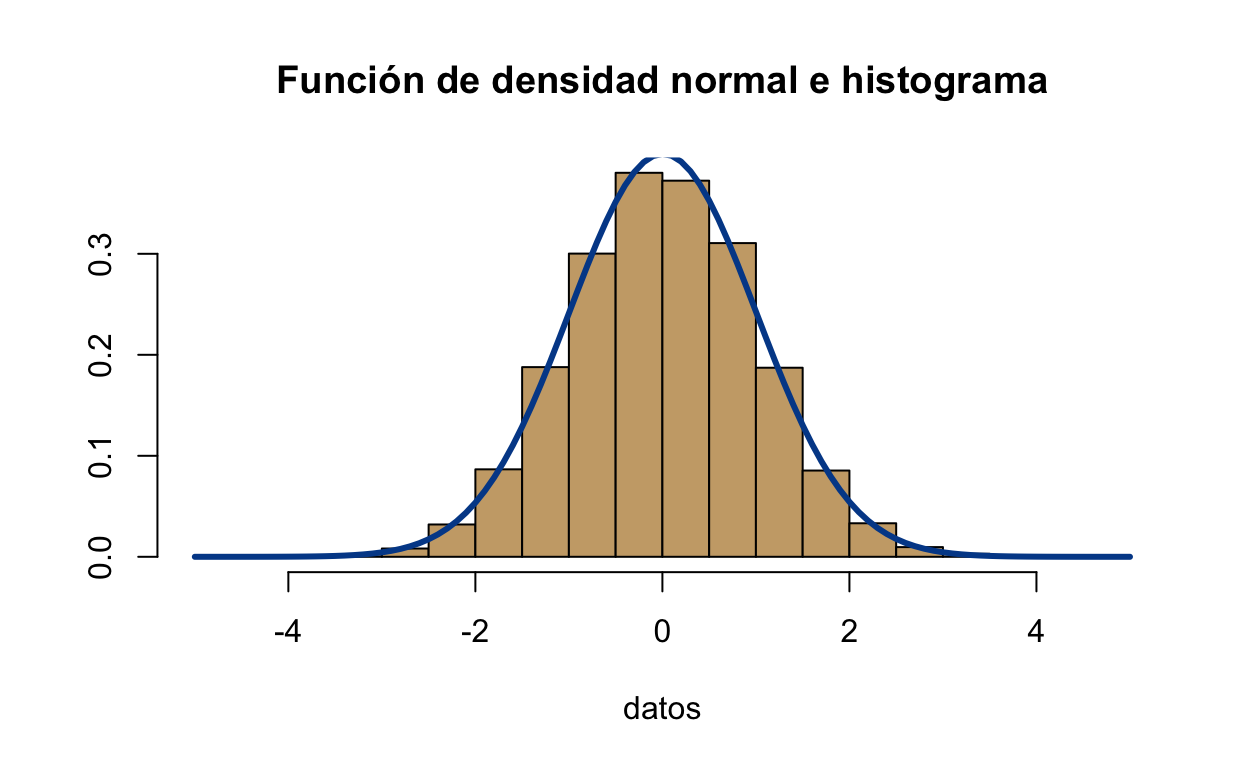
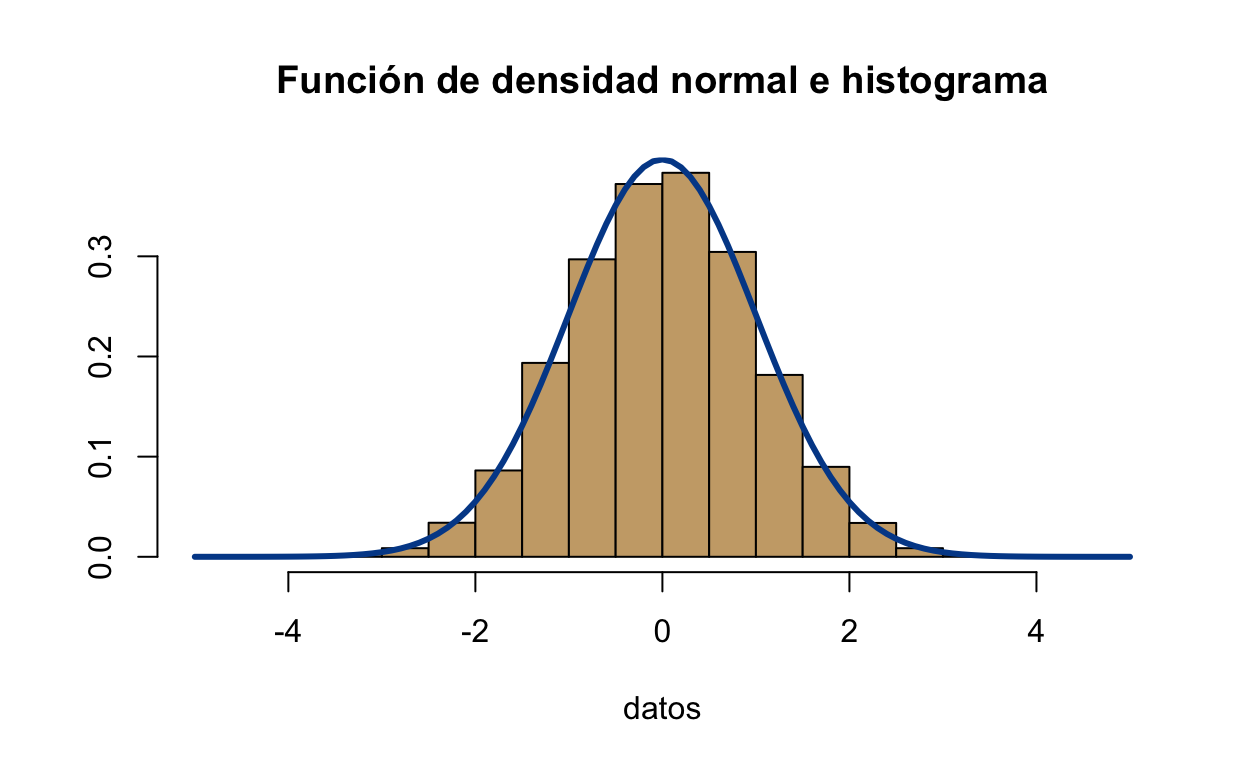
pagina actulizada

diff --git a/docs/SisDis.html b/docs/SisDis.html
@@ -2056,7 +2056,6 @@ code span.wa { color: #da4453; } /* Warning */
   <script src="site_libs/typedarray-0.1/typedarray.min.js"></script>
   <link href="site_libs/plotly-htmlwidgets-css-2.5.1/plotly-htmlwidgets.css" rel="stylesheet" />
   <script src="site_libs/plotly-main-2.5.1/plotly-latest.min.js"></script>
-  <script src="site_libs/mathjax-2.7.5/cdn.js"></script>
   <script src="site_libs/popper-2.6.0/popper.min.js"></script>
   <link href="site_libs/tippy-6.2.7/tippy.css" rel="stylesheet" />
   <link href="site_libs/tippy-6.2.7/tippy-light-border.css" rel="stylesheet" />
@@ -2436,8 +2435,8 @@ en tiempo discreto</h2>
 <span class='fu'>DT</span><span class='fu'>::</span><span class='fu'><a href='https://rdrr.io/pkg/DT/man/datatable.html'>datatable</a></span><span class='op'>(</span><span class='va'>tabulacion</span><span class='op'>)</span>
 </code></pre>
 </div>
-<div id="htmlwidget-9652a9dbbb49a22438b4" style="width:100%;height:auto;" class="datatables html-widget"></div>
-<script type="application/json" data-for="htmlwidget-9652a9dbbb49a22438b4">{"x":{"filter":"none","vertical":false,"data":[["1","2","3","4","5","6","7"],[-2,-1,0,1,2,3,4],[4,2,1,0.5,0.25,0.125,0.0625]],"container":"<table class=\"display\">\n  <thead>\n    <tr>\n      <th> <\/th>\n      <th>x<\/th>\n      <th>y<\/th>\n    <\/tr>\n  <\/thead>\n<\/table>","options":{"columnDefs":[{"className":"dt-right","targets":[1,2]},{"orderable":false,"targets":0}],"order":[],"autoWidth":false,"orderClasses":false}},"evals":[],"jsHooks":[]}</script>
+<div id="htmlwidget-b7f60859ce8d7f30dc51" style="width:100%;height:auto;" class="datatables html-widget"></div>
+<script type="application/json" data-for="htmlwidget-b7f60859ce8d7f30dc51">{"x":{"filter":"none","vertical":false,"data":[["1","2","3","4","5","6","7"],[-2,-1,0,1,2,3,4],[4,2,1,0.5,0.25,0.125,0.0625]],"container":"<table class=\"display\">\n  <thead>\n    <tr>\n      <th> <\/th>\n      <th>x<\/th>\n      <th>y<\/th>\n    <\/tr>\n  <\/thead>\n<\/table>","options":{"columnDefs":[{"className":"dt-right","targets":[1,2]},{"orderable":false,"targets":0}],"order":[],"autoWidth":false,"orderClasses":false}},"evals":[],"jsHooks":[]}</script>
 </div>
 <div class="layout-chunk" data-layout="l-body">
 <div class="sourceCode">
@@ -2493,8 +2492,8 @@ en tiempo discreto</h2>
          yaxis <span class='op'>=</span>  <span class='fu'><a href='https://rdrr.io/r/base/list.html'>list</a></span><span class='op'>(</span>title <span class='op'>=</span> <span class='st'>"f(n)"</span><span class='op'>)</span><span class='op'>)</span>
 </code></pre>
 </div>
-<div id="htmlwidget-3ce13780782ff1e31586" style="width:624px;height:384px;" class="plotly html-widget"></div>
-<script type="application/json" data-for="htmlwidget-3ce13780782ff1e31586">{"x":{"visdat":{"12faa70602385":["function () ","plotlyVisDat"]},"cur_data":"12faa70602385","attrs":{"12faa70602385":{"x":{},"y":{},"mode":"lines","alpha_stroke":1,"sizes":[10,100],"spans":[1,20],"type":"scatter"}},"layout":{"margin":{"b":40,"l":60,"t":25,"r":10},"title":"Gráfica de la función en series de tiempo","xaxis":{"domain":[0,1],"automargin":true,"title":"n"},"yaxis":{"domain":[0,1],"automargin":true,"title":"f(n)"},"hovermode":"closest","showlegend":false},"source":"A","config":{"modeBarButtonsToAdd":["hoverclosest","hovercompare"],"showSendToCloud":false},"data":[{"x":[-2,-1,0,1,2,3,4],"y":[4,2,1,0.5,0.25,0.125,0.0625],"mode":"lines","type":"scatter","marker":{"color":"rgba(31,119,180,1)","line":{"color":"rgba(31,119,180,1)"}},"error_y":{"color":"rgba(31,119,180,1)"},"error_x":{"color":"rgba(31,119,180,1)"},"line":{"color":"rgba(31,119,180,1)"},"xaxis":"x","yaxis":"y","frame":null}],"highlight":{"on":"plotly_click","persistent":false,"dynamic":false,"selectize":false,"opacityDim":0.2,"selected":{"opacity":1},"debounce":0},"shinyEvents":["plotly_hover","plotly_click","plotly_selected","plotly_relayout","plotly_brushed","plotly_brushing","plotly_clickannotation","plotly_doubleclick","plotly_deselect","plotly_afterplot","plotly_sunburstclick"],"base_url":"https://plot.ly"},"evals":[],"jsHooks":[]}</script>
+<div id="htmlwidget-d1750ab76cf129e0f2bf" style="width:624px;height:384px;" class="plotly html-widget"></div>
+<script type="application/json" data-for="htmlwidget-d1750ab76cf129e0f2bf">{"x":{"visdat":{"173d5e55be6b":["function () ","plotlyVisDat"]},"cur_data":"173d5e55be6b","attrs":{"173d5e55be6b":{"x":{},"y":{},"mode":"lines","alpha_stroke":1,"sizes":[10,100],"spans":[1,20],"type":"scatter"}},"layout":{"margin":{"b":40,"l":60,"t":25,"r":10},"title":"Gráfica de la función en series de tiempo","xaxis":{"domain":[0,1],"automargin":true,"title":"n"},"yaxis":{"domain":[0,1],"automargin":true,"title":"f(n)"},"hovermode":"closest","showlegend":false},"source":"A","config":{"modeBarButtonsToAdd":["hoverclosest","hovercompare"],"showSendToCloud":false},"data":[{"x":[-2,-1,0,1,2,3,4],"y":[4,2,1,0.5,0.25,0.125,0.0625],"mode":"lines","type":"scatter","marker":{"color":"rgba(31,119,180,1)","line":{"color":"rgba(31,119,180,1)"}},"error_y":{"color":"rgba(31,119,180,1)"},"error_x":{"color":"rgba(31,119,180,1)"},"line":{"color":"rgba(31,119,180,1)"},"xaxis":"x","yaxis":"y","frame":null}],"highlight":{"on":"plotly_click","persistent":false,"dynamic":false,"selectize":false,"opacityDim":0.2,"selected":{"opacity":1},"debounce":0},"shinyEvents":["plotly_hover","plotly_click","plotly_selected","plotly_relayout","plotly_brushed","plotly_brushing","plotly_clickannotation","plotly_doubleclick","plotly_deselect","plotly_afterplot","plotly_sunburstclick"],"base_url":"https://plot.ly"},"evals":[],"jsHooks":[]}</script>
 </div>
 <h2 id="traslación-horizontal">Traslación horizontal</h2>
 <div class="layout-chunk" data-layout="l-body">
@@ -2512,27 +2511,30 @@ en tiempo discreto</h2>
 <span class='va'>fig</span> <span class='op'>&lt;-</span> <span class='fu'><a href='https://rdrr.io/pkg/plotly/man/plot_ly.html'>plot_ly</a></span><span class='op'>(</span><span class='va'>datos</span>, 
                x <span class='op'>=</span> <span class='op'>~</span><span class='va'>x</span>,
                y <span class='op'>=</span> <span class='op'>~</span><span class='va'>y</span>, 
-               name <span class='op'>=</span> <span class='fu'><a href='https://rdrr.io/pkg/plotly/man/TeX.html'>TeX</a></span><span class='op'>(</span><span class='st'>"f_t"</span><span class='op'>)</span>, 
+               name <span class='op'>=</span> <span class='st'>"f_t"</span>,
+              <span class='co'>#name = TeX("f_t"), </span>
                type <span class='op'>=</span> <span class='st'>'scatter'</span>,
                mode <span class='op'>=</span> <span class='st'>'lines+markers'</span><span class='op'>)</span> <span class='op'><a href='https://magrittr.tidyverse.org/reference/pipe.html'>%&gt;%</a></span> 
   <span class='fu'><a href='https://rdrr.io/pkg/plotly/man/add_trace.html'>add_trace</a></span><span class='op'>(</span>x <span class='op'>=</span> <span class='op'>~</span><span class='va'>x1</span>, 
-            y <span class='op'>=</span> <span class='op'>~</span><span class='va'>y1</span>, 
-            name <span class='op'>=</span> <span class='fu'><a href='https://rdrr.io/pkg/plotly/man/TeX.html'>TeX</a></span><span class='op'>(</span><span class='st'>"f_{t-1}"</span><span class='op'>)</span>, 
+            y <span class='op'>=</span> <span class='op'>~</span><span class='va'>y1</span>,
+            name <span class='op'>=</span> <span class='st'>"f_{t-1}"</span>,
+            <span class='co'>#name = TeX("f_{t-1}"), </span>
             mode <span class='op'>=</span> <span class='st'>"lines+markers"</span>, 
             type <span class='op'>=</span> <span class='st'>"scatter"</span><span class='op'>)</span> <span class='op'><a href='https://magrittr.tidyverse.org/reference/pipe.html'>%&gt;%</a></span>
   <span class='fu'><a href='https://rdrr.io/pkg/plotly/man/add_trace.html'>add_trace</a></span><span class='op'>(</span>x <span class='op'>=</span> <span class='op'>~</span><span class='va'>xm1</span>, 
             y <span class='op'>=</span> <span class='op'>~</span><span class='va'>ym1</span>, 
-            name <span class='op'>=</span> <span class='fu'><a href='https://rdrr.io/pkg/plotly/man/TeX.html'>TeX</a></span><span class='op'>(</span><span class='st'>"f_{t+1}"</span><span class='op'>)</span>, 
+            name <span class='op'>=</span> <span class='st'>"f_{t+1}"</span>,
+            <span class='co'>#name = TeX("f_{t+1}"), </span>
             mode <span class='op'>=</span> <span class='st'>"lines+markers"</span>, 
             type <span class='op'>=</span> <span class='st'>"scatter"</span><span class='op'>)</span> <span class='op'><a href='https://magrittr.tidyverse.org/reference/pipe.html'>%&gt;%</a></span>
-  <span class='fu'><a href='https://rdrr.io/pkg/plotly/man/config.html'>config</a></span><span class='op'>(</span>mathjax <span class='op'>=</span> <span class='st'>'cdn'</span><span class='op'>)</span> <span class='op'><a href='https://magrittr.tidyverse.org/reference/pipe.html'>%&gt;%</a></span>
+  <span class='co'>#config(mathjax = 'cdn') %&gt;%</span>
   <span class='fu'><a href='https://rdrr.io/pkg/plotly/man/layout.html'>layout</a></span><span class='op'>(</span>title <span class='op'>=</span> <span class='st'>"Gráfica de la función y tralaciones horizontales"</span>,
          xaxis <span class='op'>=</span>  <span class='fu'><a href='https://rdrr.io/r/base/list.html'>list</a></span><span class='op'>(</span>title <span class='op'>=</span><span class='st'>"n"</span><span class='op'>)</span><span class='op'>)</span>
 <span class='va'>fig</span>
 </code></pre>
 </div>
-<div id="htmlwidget-838517bed9d4bde03ad4" style="width:624px;height:384px;" class="plotly html-widget"></div>
-<script type="application/json" data-for="htmlwidget-838517bed9d4bde03ad4">{"x":{"visdat":{"12faa23140e42":["function () ","plotlyVisDat"]},"cur_data":"12faa23140e42","attrs":{"12faa23140e42":{"x":{},"y":{},"mode":"lines+markers","name":"$f_t$","alpha_stroke":1,"sizes":[10,100],"spans":[1,20],"type":"scatter"},"12faa23140e42.1":{"x":{},"y":{},"mode":"lines+markers","name":"$f_{t-1}$","alpha_stroke":1,"sizes":[10,100],"spans":[1,20],"type":"scatter","inherit":true},"12faa23140e42.2":{"x":{},"y":{},"mode":"lines+markers","name":"$f_{t+1}$","alpha_stroke":1,"sizes":[10,100],"spans":[1,20],"type":"scatter","inherit":true}},"layout":{"margin":{"b":40,"l":60,"t":25,"r":10},"title":"Gráfica de la función y tralaciones horizontales","xaxis":{"domain":[0,1],"automargin":true,"title":"n"},"yaxis":{"domain":[0,1],"automargin":true,"title":"y"},"hovermode":"closest","showlegend":true},"source":"A","config":{"modeBarButtonsToAdd":["hoverclosest","hovercompare"],"showSendToCloud":false},"data":[{"x":[-2,-1,0,1,2,3,4],"y":[4,2,1,0.5,0.25,0.125,0.0625],"mode":"lines+markers","name":"$f_t$","type":"scatter","marker":{"color":"rgba(31,119,180,1)","line":{"color":"rgba(31,119,180,1)"}},"error_y":{"color":"rgba(31,119,180,1)"},"error_x":{"color":"rgba(31,119,180,1)"},"line":{"color":"rgba(31,119,180,1)"},"xaxis":"x","yaxis":"y","frame":null},{"x":[-1,0,1,2,3,4,5],"y":[4,2,1,0.5,0.25,0.125,0.0625],"mode":"lines+markers","name":"$f_{t-1}$","type":"scatter","marker":{"color":"rgba(255,127,14,1)","line":{"color":"rgba(255,127,14,1)"}},"error_y":{"color":"rgba(255,127,14,1)"},"error_x":{"color":"rgba(255,127,14,1)"},"line":{"color":"rgba(255,127,14,1)"},"xaxis":"x","yaxis":"y","frame":null},{"x":[-3,-2,-1,0,1,2,3],"y":[4,2,1,0.5,0.25,0.125,0.0625],"mode":"lines+markers","name":"$f_{t+1}$","type":"scatter","marker":{"color":"rgba(44,160,44,1)","line":{"color":"rgba(44,160,44,1)"}},"error_y":{"color":"rgba(44,160,44,1)"},"error_x":{"color":"rgba(44,160,44,1)"},"line":{"color":"rgba(44,160,44,1)"},"xaxis":"x","yaxis":"y","frame":null}],"highlight":{"on":"plotly_click","persistent":false,"dynamic":false,"selectize":false,"opacityDim":0.2,"selected":{"opacity":1},"debounce":0},"shinyEvents":["plotly_hover","plotly_click","plotly_selected","plotly_relayout","plotly_brushed","plotly_brushing","plotly_clickannotation","plotly_doubleclick","plotly_deselect","plotly_afterplot","plotly_sunburstclick"],"base_url":"https://plot.ly"},"evals":[],"jsHooks":[]}</script>
+<div id="htmlwidget-d04b4fd863ec775c09c4" style="width:624px;height:384px;" class="plotly html-widget"></div>
+<script type="application/json" data-for="htmlwidget-d04b4fd863ec775c09c4">{"x":{"visdat":{"173d764db081":["function () ","plotlyVisDat"]},"cur_data":"173d764db081","attrs":{"173d764db081":{"x":{},"y":{},"mode":"lines+markers","name":"f_t","alpha_stroke":1,"sizes":[10,100],"spans":[1,20],"type":"scatter"},"173d764db081.1":{"x":{},"y":{},"mode":"lines+markers","name":"f_{t-1}","alpha_stroke":1,"sizes":[10,100],"spans":[1,20],"type":"scatter","inherit":true},"173d764db081.2":{"x":{},"y":{},"mode":"lines+markers","name":"f_{t+1}","alpha_stroke":1,"sizes":[10,100],"spans":[1,20],"type":"scatter","inherit":true}},"layout":{"margin":{"b":40,"l":60,"t":25,"r":10},"title":"Gráfica de la función y tralaciones horizontales","xaxis":{"domain":[0,1],"automargin":true,"title":"n"},"yaxis":{"domain":[0,1],"automargin":true,"title":"y"},"hovermode":"closest","showlegend":true},"source":"A","config":{"modeBarButtonsToAdd":["hoverclosest","hovercompare"],"showSendToCloud":false},"data":[{"x":[-2,-1,0,1,2,3,4],"y":[4,2,1,0.5,0.25,0.125,0.0625],"mode":"lines+markers","name":"f_t","type":"scatter","marker":{"color":"rgba(31,119,180,1)","line":{"color":"rgba(31,119,180,1)"}},"error_y":{"color":"rgba(31,119,180,1)"},"error_x":{"color":"rgba(31,119,180,1)"},"line":{"color":"rgba(31,119,180,1)"},"xaxis":"x","yaxis":"y","frame":null},{"x":[-1,0,1,2,3,4,5],"y":[4,2,1,0.5,0.25,0.125,0.0625],"mode":"lines+markers","name":"f_{t-1}","type":"scatter","marker":{"color":"rgba(255,127,14,1)","line":{"color":"rgba(255,127,14,1)"}},"error_y":{"color":"rgba(255,127,14,1)"},"error_x":{"color":"rgba(255,127,14,1)"},"line":{"color":"rgba(255,127,14,1)"},"xaxis":"x","yaxis":"y","frame":null},{"x":[-3,-2,-1,0,1,2,3],"y":[4,2,1,0.5,0.25,0.125,0.0625],"mode":"lines+markers","name":"f_{t+1}","type":"scatter","marker":{"color":"rgba(44,160,44,1)","line":{"color":"rgba(44,160,44,1)"}},"error_y":{"color":"rgba(44,160,44,1)"},"error_x":{"color":"rgba(44,160,44,1)"},"line":{"color":"rgba(44,160,44,1)"},"xaxis":"x","yaxis":"y","frame":null}],"highlight":{"on":"plotly_click","persistent":false,"dynamic":false,"selectize":false,"opacityDim":0.2,"selected":{"opacity":1},"debounce":0},"shinyEvents":["plotly_hover","plotly_click","plotly_selected","plotly_relayout","plotly_brushed","plotly_brushing","plotly_clickannotation","plotly_doubleclick","plotly_deselect","plotly_afterplot","plotly_sunburstclick"],"base_url":"https://plot.ly"},"evals":[],"jsHooks":[]}</script>
 </div>
 <h2 id="traslación-vertical">Traslación vertical</h2>
 <div class="layout-chunk" data-layout="l-body">
@@ -2557,14 +2559,13 @@ en tiempo discreto</h2>
             name <span class='op'>=</span> <span class='st'>"f_{t}-1"</span>, 
             mode <span class='op'>=</span> <span class='st'>"lines+markers"</span>, 
             type <span class='op'>=</span> <span class='st'>"scatter"</span><span class='op'>)</span> <span class='op'><a href='https://magrittr.tidyverse.org/reference/pipe.html'>%&gt;%</a></span>
- <span class='co'># config(mathjax = 'cdn') %&gt;%</span>
   <span class='fu'><a href='https://rdrr.io/pkg/plotly/man/layout.html'>layout</a></span><span class='op'>(</span>title <span class='op'>=</span> <span class='st'>"Gráfica de la función y traslaciones verticales"</span>,
          xaxis <span class='op'>=</span>  <span class='fu'><a href='https://rdrr.io/r/base/list.html'>list</a></span><span class='op'>(</span>title <span class='op'>=</span><span class='st'>"n"</span><span class='op'>)</span><span class='op'>)</span>
 <span class='va'>fig</span>
 </code></pre>
 </div>
-<div id="htmlwidget-9680d296127de5f44d99" style="width:624px;height:384px;" class="plotly html-widget"></div>
-<script type="application/json" data-for="htmlwidget-9680d296127de5f44d99">{"x":{"visdat":{"12faa20e59799":["function () ","plotlyVisDat"]},"cur_data":"12faa20e59799","attrs":{"12faa20e59799":{"x":{},"y":{},"mode":"lines+markers","name":"f_t","alpha_stroke":1,"sizes":[10,100],"spans":[1,20],"type":"scatter"},"12faa20e59799.1":{"x":{},"y":{},"mode":"lines+markers","name":"f_{t}+1","alpha_stroke":1,"sizes":[10,100],"spans":[1,20],"type":"scatter","inherit":true},"12faa20e59799.2":{"x":{},"y":{},"mode":"lines+markers","name":"f_{t}-1","alpha_stroke":1,"sizes":[10,100],"spans":[1,20],"type":"scatter","inherit":true}},"layout":{"margin":{"b":40,"l":60,"t":25,"r":10},"title":"Gráfica de la función y traslaciones verticales","xaxis":{"domain":[0,1],"automargin":true,"title":"n"},"yaxis":{"domain":[0,1],"automargin":true,"title":"y"},"hovermode":"closest","showlegend":true},"source":"A","config":{"modeBarButtonsToAdd":["hoverclosest","hovercompare"],"showSendToCloud":false},"data":[{"x":[-2,-1,0,1,2,3,4],"y":[4,2,1,0.5,0.25,0.125,0.0625],"mode":"lines+markers","name":"f_t","type":"scatter","marker":{"color":"rgba(31,119,180,1)","line":{"color":"rgba(31,119,180,1)"}},"error_y":{"color":"rgba(31,119,180,1)"},"error_x":{"color":"rgba(31,119,180,1)"},"line":{"color":"rgba(31,119,180,1)"},"xaxis":"x","yaxis":"y","frame":null},{"x":[-2,-1,0,1,2,3,4],"y":[5,3,2,1.5,1.25,1.125,1.0625],"mode":"lines+markers","name":"f_{t}+1","type":"scatter","marker":{"color":"rgba(255,127,14,1)","line":{"color":"rgba(255,127,14,1)"}},"error_y":{"color":"rgba(255,127,14,1)"},"error_x":{"color":"rgba(255,127,14,1)"},"line":{"color":"rgba(255,127,14,1)"},"xaxis":"x","yaxis":"y","frame":null},{"x":[-2,-1,0,1,2,3,4],"y":[3,1,0,-0.5,-0.75,-0.875,-0.9375],"mode":"lines+markers","name":"f_{t}-1","type":"scatter","marker":{"color":"rgba(44,160,44,1)","line":{"color":"rgba(44,160,44,1)"}},"error_y":{"color":"rgba(44,160,44,1)"},"error_x":{"color":"rgba(44,160,44,1)"},"line":{"color":"rgba(44,160,44,1)"},"xaxis":"x","yaxis":"y","frame":null}],"highlight":{"on":"plotly_click","persistent":false,"dynamic":false,"selectize":false,"opacityDim":0.2,"selected":{"opacity":1},"debounce":0},"shinyEvents":["plotly_hover","plotly_click","plotly_selected","plotly_relayout","plotly_brushed","plotly_brushing","plotly_clickannotation","plotly_doubleclick","plotly_deselect","plotly_afterplot","plotly_sunburstclick"],"base_url":"https://plot.ly"},"evals":[],"jsHooks":[]}</script>
+<div id="htmlwidget-38e394cf2a869765ba84" style="width:624px;height:384px;" class="plotly html-widget"></div>
+<script type="application/json" data-for="htmlwidget-38e394cf2a869765ba84">{"x":{"visdat":{"173d248619de":["function () ","plotlyVisDat"]},"cur_data":"173d248619de","attrs":{"173d248619de":{"x":{},"y":{},"mode":"lines+markers","name":"f_t","alpha_stroke":1,"sizes":[10,100],"spans":[1,20],"type":"scatter"},"173d248619de.1":{"x":{},"y":{},"mode":"lines+markers","name":"f_{t}+1","alpha_stroke":1,"sizes":[10,100],"spans":[1,20],"type":"scatter","inherit":true},"173d248619de.2":{"x":{},"y":{},"mode":"lines+markers","name":"f_{t}-1","alpha_stroke":1,"sizes":[10,100],"spans":[1,20],"type":"scatter","inherit":true}},"layout":{"margin":{"b":40,"l":60,"t":25,"r":10},"title":"Gráfica de la función y traslaciones verticales","xaxis":{"domain":[0,1],"automargin":true,"title":"n"},"yaxis":{"domain":[0,1],"automargin":true,"title":"y"},"hovermode":"closest","showlegend":true},"source":"A","config":{"modeBarButtonsToAdd":["hoverclosest","hovercompare"],"showSendToCloud":false},"data":[{"x":[-2,-1,0,1,2,3,4],"y":[4,2,1,0.5,0.25,0.125,0.0625],"mode":"lines+markers","name":"f_t","type":"scatter","marker":{"color":"rgba(31,119,180,1)","line":{"color":"rgba(31,119,180,1)"}},"error_y":{"color":"rgba(31,119,180,1)"},"error_x":{"color":"rgba(31,119,180,1)"},"line":{"color":"rgba(31,119,180,1)"},"xaxis":"x","yaxis":"y","frame":null},{"x":[-2,-1,0,1,2,3,4],"y":[5,3,2,1.5,1.25,1.125,1.0625],"mode":"lines+markers","name":"f_{t}+1","type":"scatter","marker":{"color":"rgba(255,127,14,1)","line":{"color":"rgba(255,127,14,1)"}},"error_y":{"color":"rgba(255,127,14,1)"},"error_x":{"color":"rgba(255,127,14,1)"},"line":{"color":"rgba(255,127,14,1)"},"xaxis":"x","yaxis":"y","frame":null},{"x":[-2,-1,0,1,2,3,4],"y":[3,1,0,-0.5,-0.75,-0.875,-0.9375],"mode":"lines+markers","name":"f_{t}-1","type":"scatter","marker":{"color":"rgba(44,160,44,1)","line":{"color":"rgba(44,160,44,1)"}},"error_y":{"color":"rgba(44,160,44,1)"},"error_x":{"color":"rgba(44,160,44,1)"},"line":{"color":"rgba(44,160,44,1)"},"xaxis":"x","yaxis":"y","frame":null}],"highlight":{"on":"plotly_click","persistent":false,"dynamic":false,"selectize":false,"opacityDim":0.2,"selected":{"opacity":1},"debounce":0},"shinyEvents":["plotly_hover","plotly_click","plotly_selected","plotly_relayout","plotly_brushed","plotly_brushing","plotly_clickannotation","plotly_doubleclick","plotly_deselect","plotly_afterplot","plotly_sunburstclick"],"base_url":"https://plot.ly"},"evals":[],"jsHooks":[]}</script>
 </div>
 <h2 id="funciones-trigonométricas-en-tiempo-discreto">Funciones
 trigonométricas en tiempo discreto</h2>
@@ -2592,8 +2593,8 @@ trigonométricas en tiempo discreto</h2>
 <span class='va'>fig</span>
 </code></pre>
 </div>
-<div id="htmlwidget-fbb04083c9c05cdc516d" style="width:624px;height:384px;" class="plotly html-widget"></div>
-<script type="application/json" data-for="htmlwidget-fbb04083c9c05cdc516d">{"x":{"visdat":{"12faa4ab622fb":["function () ","plotlyVisDat"]},"cur_data":"12faa4ab622fb","attrs":{"12faa4ab622fb":{"x":{},"y":{},"mode":"lines+markers","name":"función no periodica","alpha_stroke":1,"sizes":[10,100],"spans":[1,20],"type":"scatter"},"12faa4ab622fb.1":{"x":{},"y":{},"mode":"lines+markers","name":"función periodica","alpha_stroke":1,"sizes":[10,100],"spans":[1,20],"type":"scatter","inherit":true}},"layout":{"margin":{"b":40,"l":60,"t":25,"r":10},"title":"Gráfica","xaxis":{"domain":[0,1],"automargin":true,"title":"n"},"yaxis":{"domain":[0,1],"automargin":true,"title":"y"},"hovermode":"closest","showlegend":true},"source":"A","config":{"modeBarButtonsToAdd":["hoverclosest","hovercompare"],"showSendToCloud":false},"data":[{"x":[-10,-9,-8,-7,-6,-5,-4,-3,-2,-1,0,1,2,3,4,5,6,7,8,9,10],"y":[0.408082061813392,0.66031670824408,-0.957659480323385,0.136737218207834,0.843853958732492,-0.839071529076452,-0.145500033808614,0.960170286650366,-0.653643620863612,-0.416146836547142,1,-0.416146836547142,-0.653643620863612,0.960170286650366,-0.145500033808614,-0.839071529076452,0.843853958732492,0.136737218207834,-0.957659480323385,0.66031670824408,0.408082061813392],"mode":"lines+markers","name":"función no periodica","type":"scatter","marker":{"color":"rgba(31,119,180,1)","line":{"color":"rgba(31,119,180,1)"}},"error_y":{"color":"rgba(31,119,180,1)"},"error_x":{"color":"rgba(31,119,180,1)"},"line":{"color":"rgba(31,119,180,1)"},"xaxis":"x","yaxis":"y","frame":null},{"x":[-10,-9,-8,-7,-6,-5,-4,-3,-2,-1,0,1,2,3,4,5,6,7,8,9,10],"y":[-0.500000000000002,-1,-0.499999999999999,0.5,1,0.499999999999999,-0.5,-1,-0.5,0.5,1,0.5,-0.5,-1,-0.5,0.499999999999999,1,0.5,-0.499999999999999,-1,-0.500000000000002],"mode":"lines+markers","name":"función periodica","type":"scatter","marker":{"color":"rgba(255,127,14,1)","line":{"color":"rgba(255,127,14,1)"}},"error_y":{"color":"rgba(255,127,14,1)"},"error_x":{"color":"rgba(255,127,14,1)"},"line":{"color":"rgba(255,127,14,1)"},"xaxis":"x","yaxis":"y","frame":null}],"highlight":{"on":"plotly_click","persistent":false,"dynamic":false,"selectize":false,"opacityDim":0.2,"selected":{"opacity":1},"debounce":0},"shinyEvents":["plotly_hover","plotly_click","plotly_selected","plotly_relayout","plotly_brushed","plotly_brushing","plotly_clickannotation","plotly_doubleclick","plotly_deselect","plotly_afterplot","plotly_sunburstclick"],"base_url":"https://plot.ly"},"evals":[],"jsHooks":[]}</script>
+<div id="htmlwidget-f5f8ff7a54ef38f7909c" style="width:624px;height:384px;" class="plotly html-widget"></div>
+<script type="application/json" data-for="htmlwidget-f5f8ff7a54ef38f7909c">{"x":{"visdat":{"173d487c8a3e":["function () ","plotlyVisDat"]},"cur_data":"173d487c8a3e","attrs":{"173d487c8a3e":{"x":{},"y":{},"mode":"lines+markers","name":"función no periodica","alpha_stroke":1,"sizes":[10,100],"spans":[1,20],"type":"scatter"},"173d487c8a3e.1":{"x":{},"y":{},"mode":"lines+markers","name":"función periodica","alpha_stroke":1,"sizes":[10,100],"spans":[1,20],"type":"scatter","inherit":true}},"layout":{"margin":{"b":40,"l":60,"t":25,"r":10},"title":"Gráfica","xaxis":{"domain":[0,1],"automargin":true,"title":"n"},"yaxis":{"domain":[0,1],"automargin":true,"title":"y"},"hovermode":"closest","showlegend":true},"source":"A","config":{"modeBarButtonsToAdd":["hoverclosest","hovercompare"],"showSendToCloud":false},"data":[{"x":[-10,-9,-8,-7,-6,-5,-4,-3,-2,-1,0,1,2,3,4,5,6,7,8,9,10],"y":[0.408082061813392,0.66031670824408,-0.957659480323385,0.136737218207834,0.843853958732492,-0.839071529076452,-0.145500033808614,0.960170286650366,-0.653643620863612,-0.416146836547142,1,-0.416146836547142,-0.653643620863612,0.960170286650366,-0.145500033808614,-0.839071529076452,0.843853958732492,0.136737218207834,-0.957659480323385,0.66031670824408,0.408082061813392],"mode":"lines+markers","name":"función no periodica","type":"scatter","marker":{"color":"rgba(31,119,180,1)","line":{"color":"rgba(31,119,180,1)"}},"error_y":{"color":"rgba(31,119,180,1)"},"error_x":{"color":"rgba(31,119,180,1)"},"line":{"color":"rgba(31,119,180,1)"},"xaxis":"x","yaxis":"y","frame":null},{"x":[-10,-9,-8,-7,-6,-5,-4,-3,-2,-1,0,1,2,3,4,5,6,7,8,9,10],"y":[-0.500000000000002,-1,-0.499999999999999,0.5,1,0.499999999999999,-0.5,-1,-0.5,0.5,1,0.5,-0.5,-1,-0.5,0.499999999999999,1,0.5,-0.499999999999999,-1,-0.500000000000002],"mode":"lines+markers","name":"función periodica","type":"scatter","marker":{"color":"rgba(255,127,14,1)","line":{"color":"rgba(255,127,14,1)"}},"error_y":{"color":"rgba(255,127,14,1)"},"error_x":{"color":"rgba(255,127,14,1)"},"line":{"color":"rgba(255,127,14,1)"},"xaxis":"x","yaxis":"y","frame":null}],"highlight":{"on":"plotly_click","persistent":false,"dynamic":false,"selectize":false,"opacityDim":0.2,"selected":{"opacity":1},"debounce":0},"shinyEvents":["plotly_hover","plotly_click","plotly_selected","plotly_relayout","plotly_brushed","plotly_brushing","plotly_clickannotation","plotly_doubleclick","plotly_deselect","plotly_afterplot","plotly_sunburstclick"],"base_url":"https://plot.ly"},"evals":[],"jsHooks":[]}</script>
 </div>
 <h2 id="heaviside-y-delta-de-kronecker">Heaviside y delta de
 Kronecker</h2>
@@ -2749,8 +2750,8 @@ class="math display">\[a_2y[t+2]+a_{1}y[t+1]+a_0y[t]=b_2x[t+2]+b_{1}x[t+1]+b_0x[
 <span class='va'>fig</span>
 </code></pre>
 </div>
-<div id="htmlwidget-2a1981d2aad93d1c863e" style="width:624px;height:384px;" class="plotly html-widget"></div>
-<script type="application/json" data-for="htmlwidget-2a1981d2aad93d1c863e">{"x":{"visdat":{"12faa37188d8e":["function () ","plotlyVisDat"]},"cur_data":"12faa37188d8e","attrs":{"12faa37188d8e":{"x":[0,1,2,3,4,5],"y":[3,7,23.5,78.75,254.375,800.1875],"mode":"lines+markers","alpha_stroke":1,"sizes":[10,100],"spans":[1,20],"type":"scatter"}},"layout":{"margin":{"b":40,"l":60,"t":25,"r":10},"title":"Solución para hasta t=5","xaxis":{"domain":[0,1],"automargin":true,"title":"t"},"yaxis":{"domain":[0,1],"automargin":true,"title":[]},"hovermode":"closest","showlegend":false},"source":"A","config":{"modeBarButtonsToAdd":["hoverclosest","hovercompare"],"showSendToCloud":false},"data":[{"x":[0,1,2,3,4,5],"y":[3,7,23.5,78.75,254.375,800.1875],"mode":"lines+markers","type":"scatter","marker":{"color":"rgba(31,119,180,1)","line":{"color":"rgba(31,119,180,1)"}},"error_y":{"color":"rgba(31,119,180,1)"},"error_x":{"color":"rgba(31,119,180,1)"},"line":{"color":"rgba(31,119,180,1)"},"xaxis":"x","yaxis":"y","frame":null}],"highlight":{"on":"plotly_click","persistent":false,"dynamic":false,"selectize":false,"opacityDim":0.2,"selected":{"opacity":1},"debounce":0},"shinyEvents":["plotly_hover","plotly_click","plotly_selected","plotly_relayout","plotly_brushed","plotly_brushing","plotly_clickannotation","plotly_doubleclick","plotly_deselect","plotly_afterplot","plotly_sunburstclick"],"base_url":"https://plot.ly"},"evals":[],"jsHooks":[]}</script>
+<div id="htmlwidget-96019a136a2640352142" style="width:624px;height:384px;" class="plotly html-widget"></div>
+<script type="application/json" data-for="htmlwidget-96019a136a2640352142">{"x":{"visdat":{"173d1410f44e":["function () ","plotlyVisDat"]},"cur_data":"173d1410f44e","attrs":{"173d1410f44e":{"x":[0,1,2,3,4,5],"y":[3,7,23.5,78.75,254.375,800.1875],"mode":"lines+markers","alpha_stroke":1,"sizes":[10,100],"spans":[1,20],"type":"scatter"}},"layout":{"margin":{"b":40,"l":60,"t":25,"r":10},"title":"Solución para hasta t=5","xaxis":{"domain":[0,1],"automargin":true,"title":"t"},"yaxis":{"domain":[0,1],"automargin":true,"title":[]},"hovermode":"closest","showlegend":false},"source":"A","config":{"modeBarButtonsToAdd":["hoverclosest","hovercompare"],"showSendToCloud":false},"data":[{"x":[0,1,2,3,4,5],"y":[3,7,23.5,78.75,254.375,800.1875],"mode":"lines+markers","type":"scatter","marker":{"color":"rgba(31,119,180,1)","line":{"color":"rgba(31,119,180,1)"}},"error_y":{"color":"rgba(31,119,180,1)"},"error_x":{"color":"rgba(31,119,180,1)"},"line":{"color":"rgba(31,119,180,1)"},"xaxis":"x","yaxis":"y","frame":null}],"highlight":{"on":"plotly_click","persistent":false,"dynamic":false,"selectize":false,"opacityDim":0.2,"selected":{"opacity":1},"debounce":0},"shinyEvents":["plotly_hover","plotly_click","plotly_selected","plotly_relayout","plotly_brushed","plotly_brushing","plotly_clickannotation","plotly_doubleclick","plotly_deselect","plotly_afterplot","plotly_sunburstclick"],"base_url":"https://plot.ly"},"evals":[],"jsHooks":[]}</script>
 </div>
 <h2 id="tranformada-mathscrz">Tranformada <span
 class="math inline">\(\mathscr{Z}\)</span></h2>

diff --git a/docs/Distribuciones.html b/docs/Distribuciones.html
@@ -2462,7 +2462,7 @@ class="math inline">\(X\sim \mathcal{N}(0,1)\)</span></p>
 <pre class="sourceCode r"><code class="sourceCode r"><span class='fu'><a href='https://rdrr.io/r/base/print.html'>print</a></span><span class='op'>(</span><span class='fu'><a href='https://rdrr.io/r/stats/Normal.html'>rnorm</a></span><span class='op'>(</span><span class='fl'>5</span><span class='op'>)</span><span class='op'>)</span>
 </code></pre>
 </div>
-<pre><code>[1]  0.7290313 -2.4203657 -0.8139019 -0.9571466 -0.3336234</code></pre>
+<pre><code>[1] -0.21327276  0.35122596 -2.72990782  0.39047698 -0.01339269</code></pre>
 </div>
 <p>Se realiza la gráfica de la función de densidad y de distribución</p>
 <div class="layout-chunk" data-layout="l-body">
@@ -2504,7 +2504,7 @@ class="math inline">\(X\sim \mathcal{N}(0,1)\)</span></p>
 <pre class="sourceCode r"><code class="sourceCode r"><span class='fu'><a href='https://rdrr.io/r/base/print.html'>print</a></span><span class='op'>(</span><span class='fu'><a href='https://rdrr.io/r/stats/Normal.html'>rnorm</a></span><span class='op'>(</span><span class='fl'>5</span>, mean <span class='op'>=</span> <span class='fl'>5</span>, sd <span class='op'>=</span> <span class='fl'>0.5</span><span class='op'>)</span><span class='op'>)</span>
 </code></pre>
 </div>
-<pre><code>[1] 4.953642 4.653260 4.865037 4.136127 4.180799</code></pre>
+<pre><code>[1] 4.406884 6.394509 4.434988 5.283760 4.272642</code></pre>
 </div>
 <p>Se realiza la gráfica de la función de densidad y de distribución</p>
 <div class="layout-chunk" data-layout="l-body">

diff --git a/docs/IntroR.html b/docs/IntroR.html
@@ -2813,7 +2813,7 @@ class="math display">\[S_n=\frac{5}{n\sqrt{2\pi}}\sum_{i=1}^ne^{-\frac{(5x_i-2.5
   <span class='va'>Sn</span>
   </code></pre>
 </div>
-<pre><code>[1] 0.9843813</code></pre>
+<pre><code>[1] 0.9846701</code></pre>
 </div>
 <h2 id="listas">Listas</h2>
 <ul>
